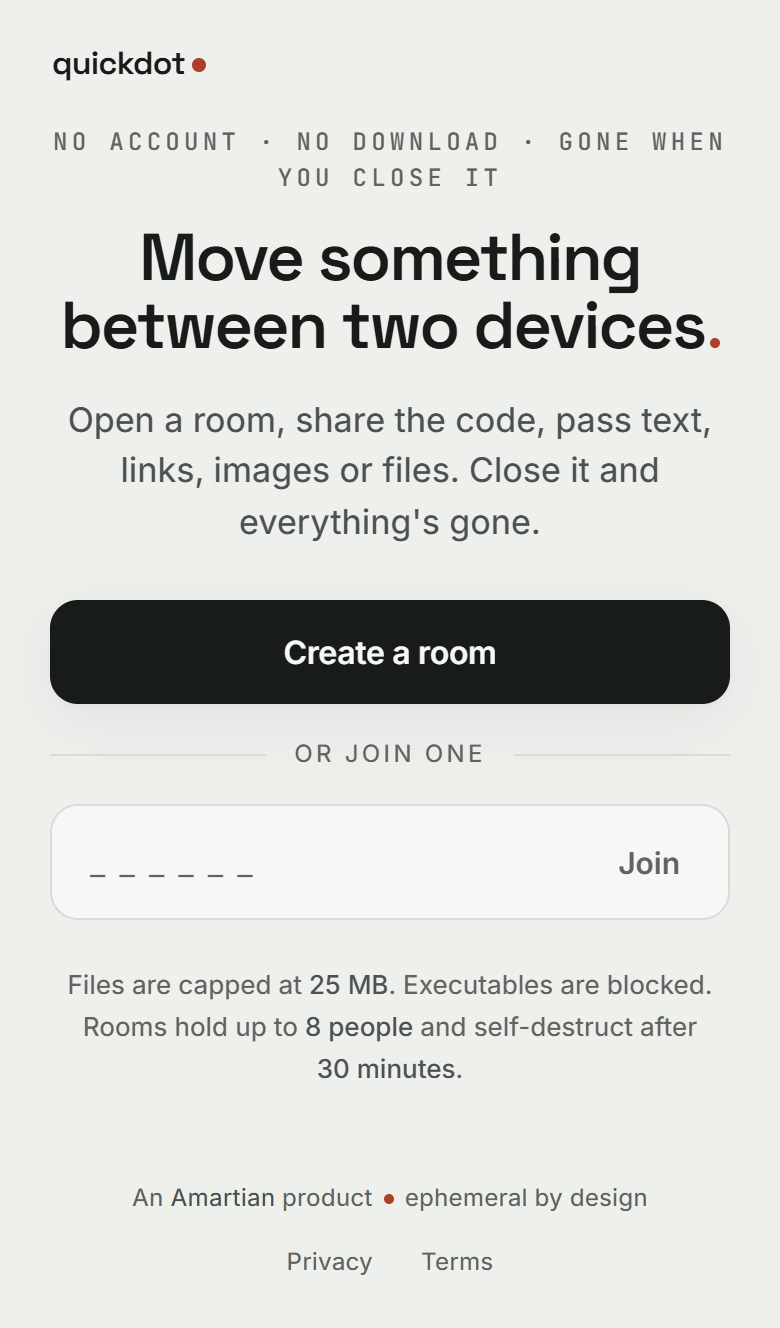
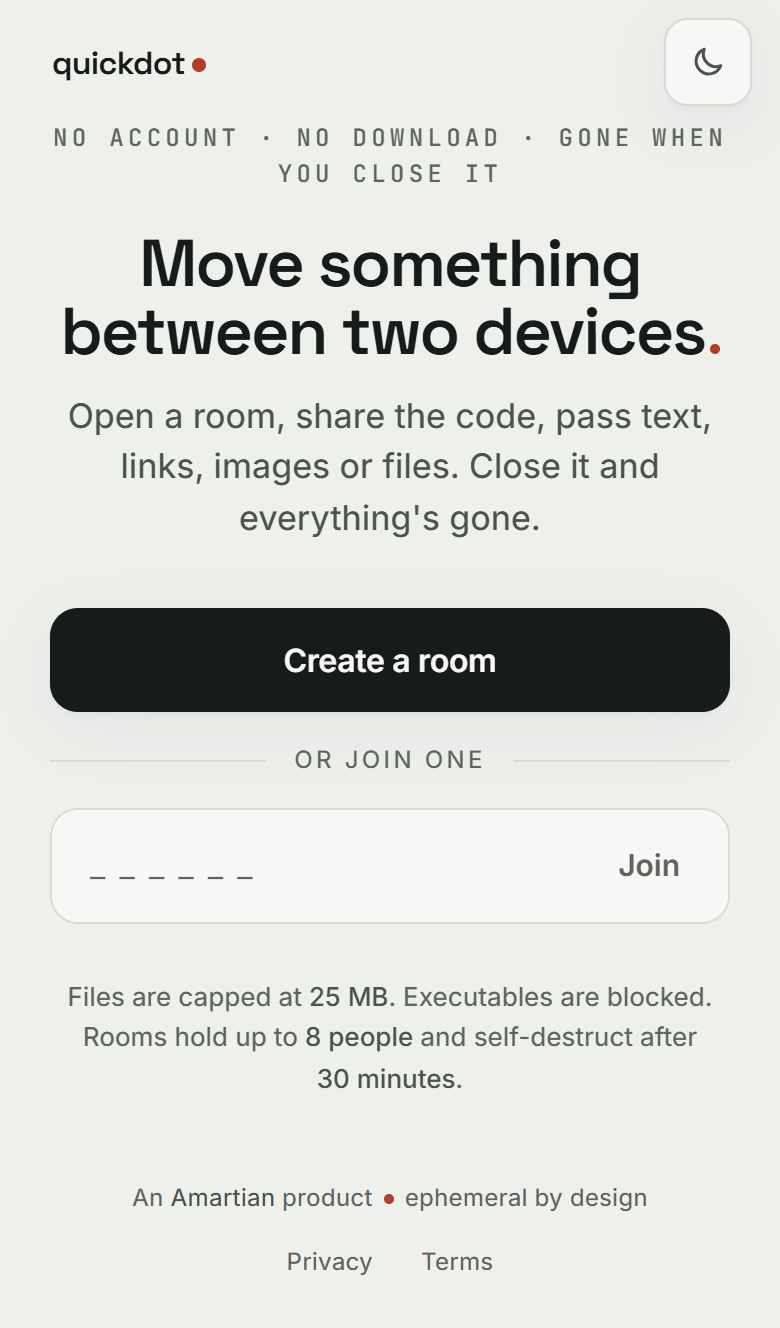
Stack toasts bottom-left; restore landing spacing on an 8px rhythm
Toasts become a short bottom-left stack like a chat log (max 3, each on its
own timer, above the composer in a room). The landing theme toggle gets a
raised, visible button. Landing gaps are multiples of one 8px unit that
eases only on short windows, so normal windows get the original spacing
and 64px headline with no scrollbar (ADR-0027).

diff --git a/frontend/src/app/landing/landing.scss b/frontend/src/app/landing/landing.scss
@@ -1,6 +1,19 @@
 :host {
   flex: 1;
   display: flex;
+
+  // Vertical rhythm: every gap is a multiple of one unit on an 8px grid.
+  // The unit is a full 8px in windows 695px tall or more, then eases
+  // linearly (about 6.7px at 657px, 4.6px at 600px), so short laptop windows
+  // fit without a scrollbar while normal ones keep the full spacing.
+  // Proximity follows meaning: the headline hugs its subhead (2u), the
+  // sections breathe (4–5u).
+  --u: clamp(4px, calc(3.6vh - 17px), 8px);
+
+  // Phones wrap the copy onto more lines, so the unit eases sooner there.
+  @media (max-width: 760px) {
+    --u: clamp(4px, calc(3.6vh - 17.5px), 8px);
+  }
 }
 
 // Top right, level with the fixed brandmark on the left.
@@ -14,13 +27,16 @@
   justify-content: center;
   width: 44px;
   height: 44px;
-  border-radius: 10px;
-  color: var(--ink-faint);
-  transition: color .18s, background .18s;
+  border: 1px solid var(--line);
+  border-radius: 12px;
+  background: var(--paper-raised);
+  color: var(--ink-soft);
+  box-shadow: var(--shadow);
+  transition: color .18s, border-color .18s;
 
   &:hover {
     color: var(--ink);
-    background: var(--paper-raised);
+    border-color: var(--line-strong);
   }
 }
 
@@ -33,18 +49,14 @@
   width: 100%;
   max-width: 640px;
   margin: 0 auto;
-  padding: 32px 24px;
-
-  // Short screens: tighter rhythm so the page fits without a scrollbar.
-  @media (max-height: 760px) {
-    padding-top: 20px;
-    padding-bottom: 20px;
-  }
+  padding: calc(4 * var(--u)) 24px;
 
   // Narrow screens: the hero spans the width under the fixed brandmark
-  // (top ~60px), so keep it clear. Wider, the brandmark sits off to the side.
+  // (bottom edge ~40px), so keep it clear. Wider, the brandmark sits off to
+  // the side.
   @media (max-width: 760px) {
-    padding-top: 60px;
+    padding-top: 56px;
+    padding-bottom: calc(2 * var(--u));
   }
 }
 
@@ -60,7 +72,7 @@
   letter-spacing: .18em;
   text-transform: uppercase;
   color: var(--ink-faint);
-  margin-bottom: 22px;
+  margin-bottom: calc(3 * var(--u));
 }
 
 h1 {
@@ -68,10 +80,11 @@ h1 {
   font-weight: 600;
   letter-spacing: -.03em;
   line-height: 1.02;
-  // "between two devices." is nowrap; 8.5vw keeps it inside a 320px phone,
-  // 8vh keeps two lines of it from crowding a short laptop window.
-  font-size: clamp(26px, min(8.5vw, 8vh), 64px);
-  margin: 0 0 18px;
+  // "between two devices." is nowrap; 8.5vw keeps it inside a 320px phone.
+  // 9.6vh holds about the full 64px down to a 667px-tall window, then
+  // scales with the spacing unit.
+  font-size: clamp(26px, min(8.5vw, 9.6vh), 64px);
+  margin: 0 0 calc(2 * var(--u));
 
   .em {
     white-space: nowrap;
@@ -95,13 +108,13 @@ h1 {
   font-size: 17px;
   color: var(--ink-soft);
   max-width: 34ch;
-  margin: 0 auto 40px;
+  margin: 0 auto calc(5 * var(--u));
 }
 
 .actions {
   display: flex;
   flex-direction: column;
-  gap: 14px;
+  gap: calc(2 * var(--u));
   width: 100%;
   max-width: 340px;
   margin: 0 auto;
@@ -214,7 +227,7 @@ h1 {
 }
 
 .note {
-  margin-top: 34px;
+  margin-top: calc(4 * var(--u));
   font-size: 13px;
   color: var(--ink-faint);
   line-height: 1.6;
@@ -222,19 +235,5 @@ h1 {
   b {
     color: var(--ink-soft);
     font-weight: 500;
-  }
-}
-
-@media (max-height: 760px) {
-  .kicker {
-    margin-bottom: 14px;
-  }
-
-  .sub {
-    margin-bottom: 26px;
-  }
-
-  .note {
-    margin-top: 22px;
   }
 }

diff --git a/frontend/src/app/app.scss b/frontend/src/app/app.scss
@@ -108,36 +108,57 @@ footer {
   }
 }
 
+// Bottom-left, like a chat log: out of the way of the content, which is
+// centred. In a room it sits above the composer.
 .toaster {
   position: fixed;
-  left: 0;
-  right: 0;
-  bottom: calc(88px + env(safe-area-inset-bottom)); // clear of the room composer
+  left: calc(16px + env(safe-area-inset-left));
+  bottom: calc(16px + env(safe-area-inset-bottom));
   z-index: 50;
   display: flex;
   flex-direction: column;
-  align-items: center;
-  padding: 0 16px;
+  align-items: flex-start;
+  max-width: min(380px, calc(100vw - 32px));
   pointer-events: none;
+
+  > div {
+    display: flex;
+    flex-direction: column;
+    align-items: flex-start;
+    gap: 8px;
+  }
+
+  // Only space the two regions apart when both have toasts.
+  > div:not(:empty) + div:not(:empty) {
+    margin-top: 8px;
+  }
+}
+
+:host(.in-room) .toaster {
+  bottom: calc(96px + env(safe-area-inset-bottom));
 }
 
 .toast {
-  max-width: min(100%, 440px);
   background: var(--solid);
   color: var(--solid-ink);
-  padding: 11px 17px;
-  border-radius: 11px;
+  padding: 10px 14px;
+  border-radius: 10px;
   font-size: 13.5px;
   font-weight: 500;
+  line-height: 1.45;
   box-shadow: var(--shadow);
-  text-align: center;
   pointer-events: auto;
-  animation: rise .3s cubic-bezier(.2, .8, .2, 1) both;
+  animation: toastin .28s cubic-bezier(.2, .8, .2, 1) both;
 
   &.err {
     background: var(--signal-text); // 6.6:1 with --on-signal (5.5:1 in dark)
     color: var(--on-signal);
   }
+}
+
+@keyframes toastin {
+  from { opacity: 0; transform: translateX(-12px); }
+  to { opacity: 1; transform: none; }
 }
 
 /* a notice that waits to be dismissed, for things a toast is too quick for */

diff --git a/frontend/src/app/core/toast.service.ts b/frontend/src/app/core/toast.service.ts
@@ -1,20 +1,34 @@
 import { Injectable, signal } from '@angular/core';
 
 export interface Toast {
+  id: number;
   message: string;
   error: boolean;
 }
 
+/** Older toasts give way once this many are on screen. */
+const MAX_TOASTS = 3;
+
+/**
+ * Short, self-dismissing messages, stacked in the bottom-left corner like a
+ * chat log: newest at the bottom, each on its own timer.
+ */
 @Injectable({ providedIn: 'root' })
 export class ToastService {
-  readonly current = signal<Toast | null>(null);
-  private timer: ReturnType<typeof setTimeout> | undefined;
+  readonly toasts = signal<Toast[]>([]);
+  private nextId = 0;
 
   show(message: string, error = false): void {
-    this.current.set({ message, error });
-    clearTimeout(this.timer);
+    // The same message again (a double tap, a repeated rejection) just restarts.
+    const others = this.toasts().filter((t) => t.message !== message);
+    const toast = { id: this.nextId++, message, error };
+    this.toasts.set([...others, toast].slice(-MAX_TOASTS));
     // Long enough to read: about 4 s for a short line, longer for a sentence.
     const ms = Math.min(8000, 2500 + message.length * 45);
-    this.timer = setTimeout(() => this.current.set(null), ms);
+    setTimeout(() => this.dismiss(toast.id), ms);
+  }
+
+  dismiss(id: number): void {
+    this.toasts.update((list) => list.filter((t) => t.id !== id));
   }
 }

diff --git a/frontend/src/app/app.html b/frontend/src/app/app.html
@@ -22,23 +22,22 @@
   </div>
 }
 
-<!-- Always-present live regions so toasts are announced: role="status" for
+<!-- Toasts stack in the bottom-left corner, newest at the bottom. Two
+     always-present live regions so they're announced: role="status" for
      confirmations, role="alert" for errors. Errors also get a ⚠ so they
-     don't rely on color alone (WCAG 1.4.1). The region is fixed, full-width
-     and centres the toast with flexbox, so the entry animation (which
-     animates transform) can't knock it off-centre. -->
+     don't rely on color alone (WCAG 1.4.1). -->
 <div class="toaster">
   <div role="status">
-    @if (toast.current(); as t) {
+    @for (t of toast.toasts(); track t.id) {
       @if (!t.error) {
-        <div class="toast on">{{ t.message }}</div>
+        <div class="toast">{{ t.message }}</div>
       }
     }
   </div>
   <div role="alert">
-    @if (toast.current(); as t) {
+    @for (t of toast.toasts(); track t.id) {
       @if (t.error) {
-        <div class="toast on err"><span aria-hidden="true">⚠ </span>{{ t.message }}</div>
+        <div class="toast err"><span aria-hidden="true">⚠ </span>{{ t.message }}</div>
       }
     }
   </div>

diff --git a/docs/DECISIONS.md b/docs/DECISIONS.md
@@ -785,3 +785,39 @@ room menu.
 
 **Consequences:** Verified at 1366×657 and 390×664: the toast is centred to
 the pixel, and the theme toggle persists across reloads.
+
+## ADR-0027: Bottom-left toast stack; landing spacing on an 8px rhythm
+
+**Date:** 2026-10-10
+**Stage:** 7 (post-launch polish)
+
+**Context:** Feedback after ADR-0025/0026: toasts should sit out of the way
+in the bottom-left corner like a chat log, not centred; the landing theme
+toggle was too faint to notice; and ADR-0025's height breakpoints squeezed
+the landing page (headline down to ~52px and gaps of 14–26px on a
+1366×657 window) when the original sizes were preferred.
+
+**Decision:**
+- **Toasts:** `ToastService` keeps a list (max 3, newest last, each on its
+  own timer; a repeated message restarts instead of duplicating). The
+  `.toaster` region is fixed 16px from the bottom-left corner (plus safe-area
+  insets), 96px up in a room so it clears the composer, at most 380px wide
+  and slides in from the left. This follows the desktop snackbar pattern
+  (e.g. Material): bottom-left, away from the centred content. The
+  `status`/`alert` live regions are unchanged.
+- **Theme toggle:** a raised 44px button (paper-raised fill, hairline
+  border, shadow), matching the room's code chip, instead of a bare icon.
+- **Landing spacing:** every vertical gap is a multiple of one unit `--u`
+  on an 8px grid: kicker→headline 3u, headline→subhead 2u (they belong
+  together), subhead→actions 5u, between actions 2u, actions→note 4u, page
+  padding 4u. `--u` is 8px in windows ≥695px tall and eases linearly below
+  (`clamp(4px, 3.6vh - 17px, 8px)`; phones ease slightly sooner). The
+  headline is `clamp(26px, min(8.5vw, 9.6vh), 64px)`, so it stays 63–64px
+  on a 657px-tall window. The ADR-0025 height breakpoints are gone; the
+  one-row footer stays.
+
+**Consequences:** At ≥695px tall the landing page matches the original
+spacing (24/16/40/16/32 vs the original 22/18/40/14/34). No scrollbar from
+1024×600 to 1920×1080 or on 360–414px phones, with at least 7px to spare
+(16px at 1366×657). A 320×568 phone and landscape phones still scroll
+because the content is taller than the screen.

diff --git a/docs/ARCHITECTURE.md b/docs/ARCHITECTURE.md
@@ -287,9 +287,11 @@ quickdot/
   and layout (bubbles/ledger) in localStorage and sets `data-theme` on
   `<html>`; an inline script in `src/index.html` does the same before first
   paint. Dark tokens live under `:root[data-theme="dark"]` in `styles.scss`.
-- **Toasts (ADR-0026):** `ToastService` messages render in a fixed,
-  full-width `.toaster` region that centres them with flexbox; duration
-  scales with message length (capped at 8 s).
+- **Toasts (ADR-0027):** `ToastService` keeps up to 3 messages, each on its
+  own timer (length-scaled, capped at 8 s). They stack in a fixed `.toaster`
+  region in the bottom-left corner (raised above the composer in a room).
+- **Landing spacing (ADR-0027):** vertical gaps are multiples of `--u`, an
+  8px unit that eases on short windows; the headline scales with `vh` too.
 - **Landing theme toggle (ADR-0026):** a sun/moon button top right calls
   `PreferencesService.toggleTheme()`, which flips the resolved theme (`dark`
   signal) and saves it as an explicit light/dark preference.

diff --git a/README.md b/README.md
@@ -74,7 +74,7 @@ server.
   truncated IP hash and the file's SHA-256, size and type. The SHA-256 is
   computed as a running digest while the file streams. Sentry scrubs
   exception messages on both the frontend and the backend.
-- **Every decision is written down.** There are [26 ADRs](docs/DECISIONS.md),
+- **Every decision is written down.** There are [27 ADRs](docs/DECISIONS.md),
   an [as-built architecture](docs/ARCHITECTURE.md) and the original
   [spec](SPEC.md) with its staged build plan.
 
